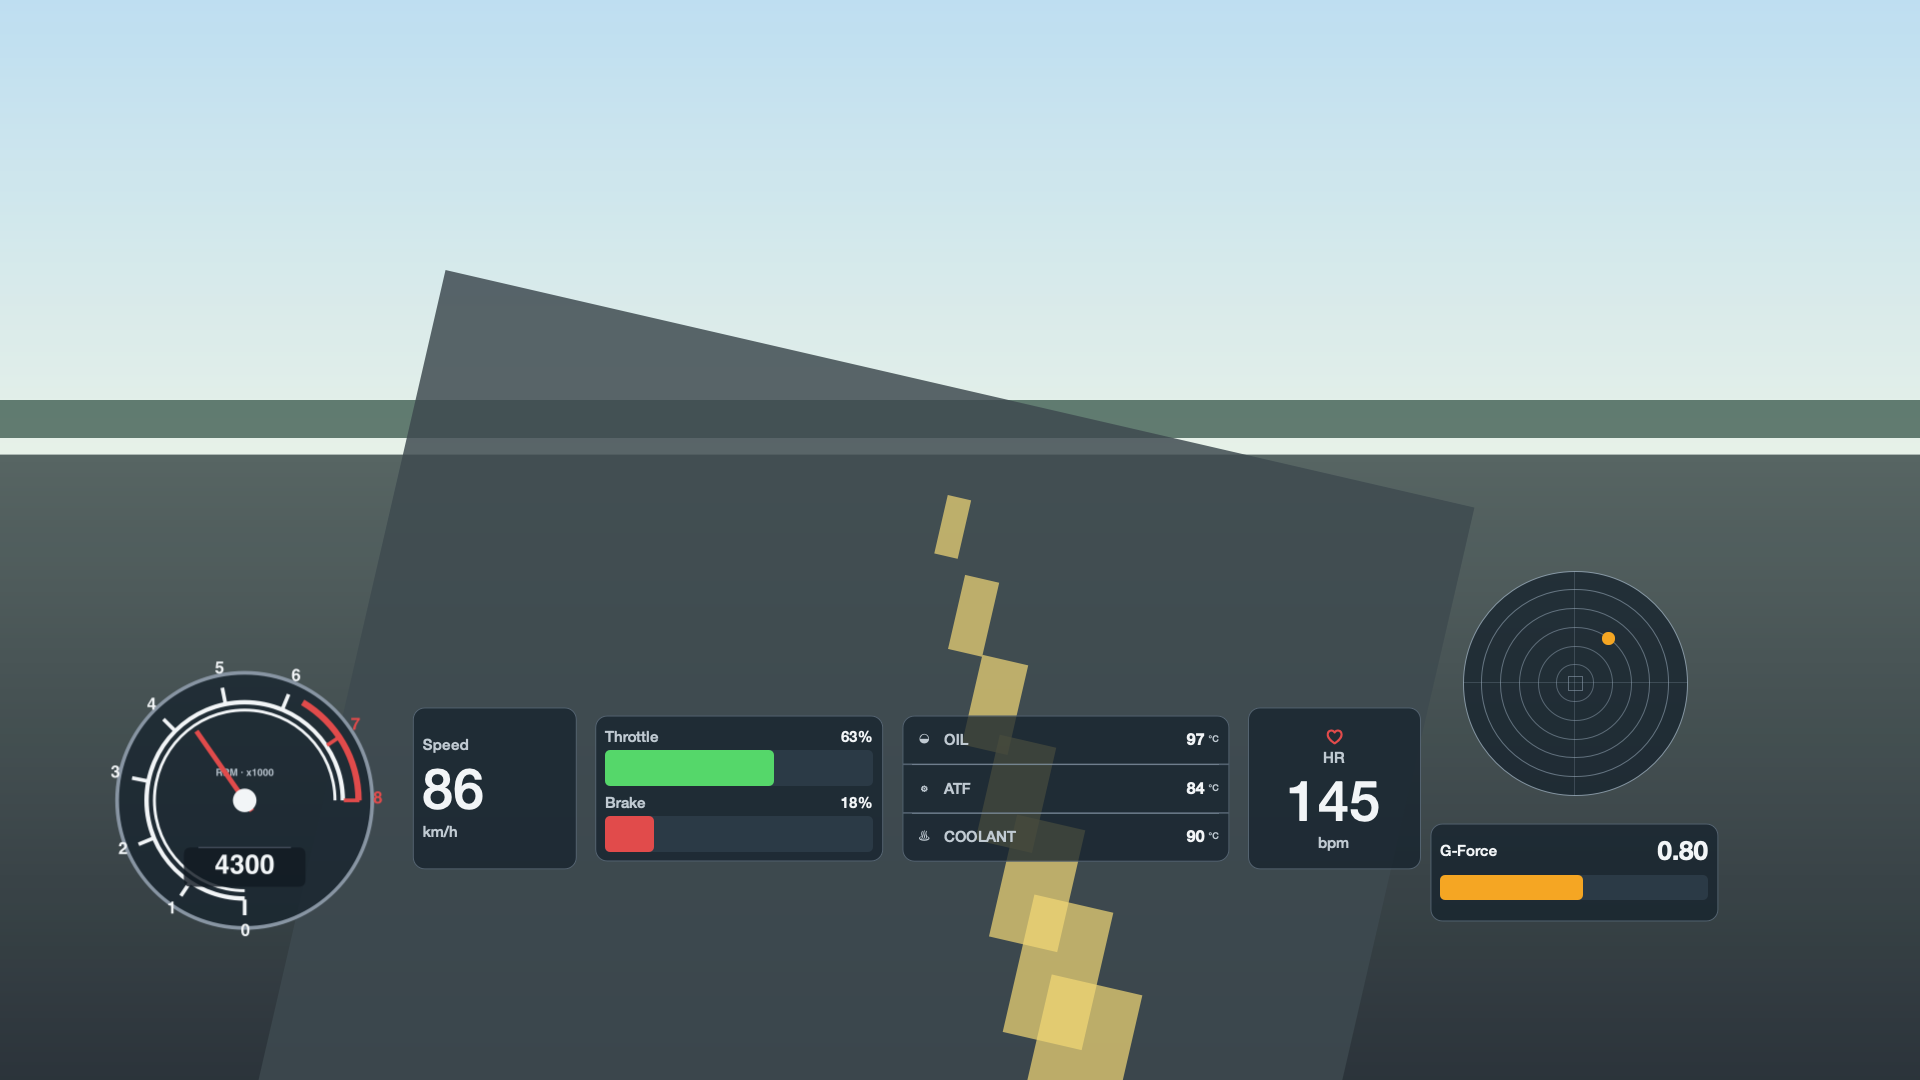
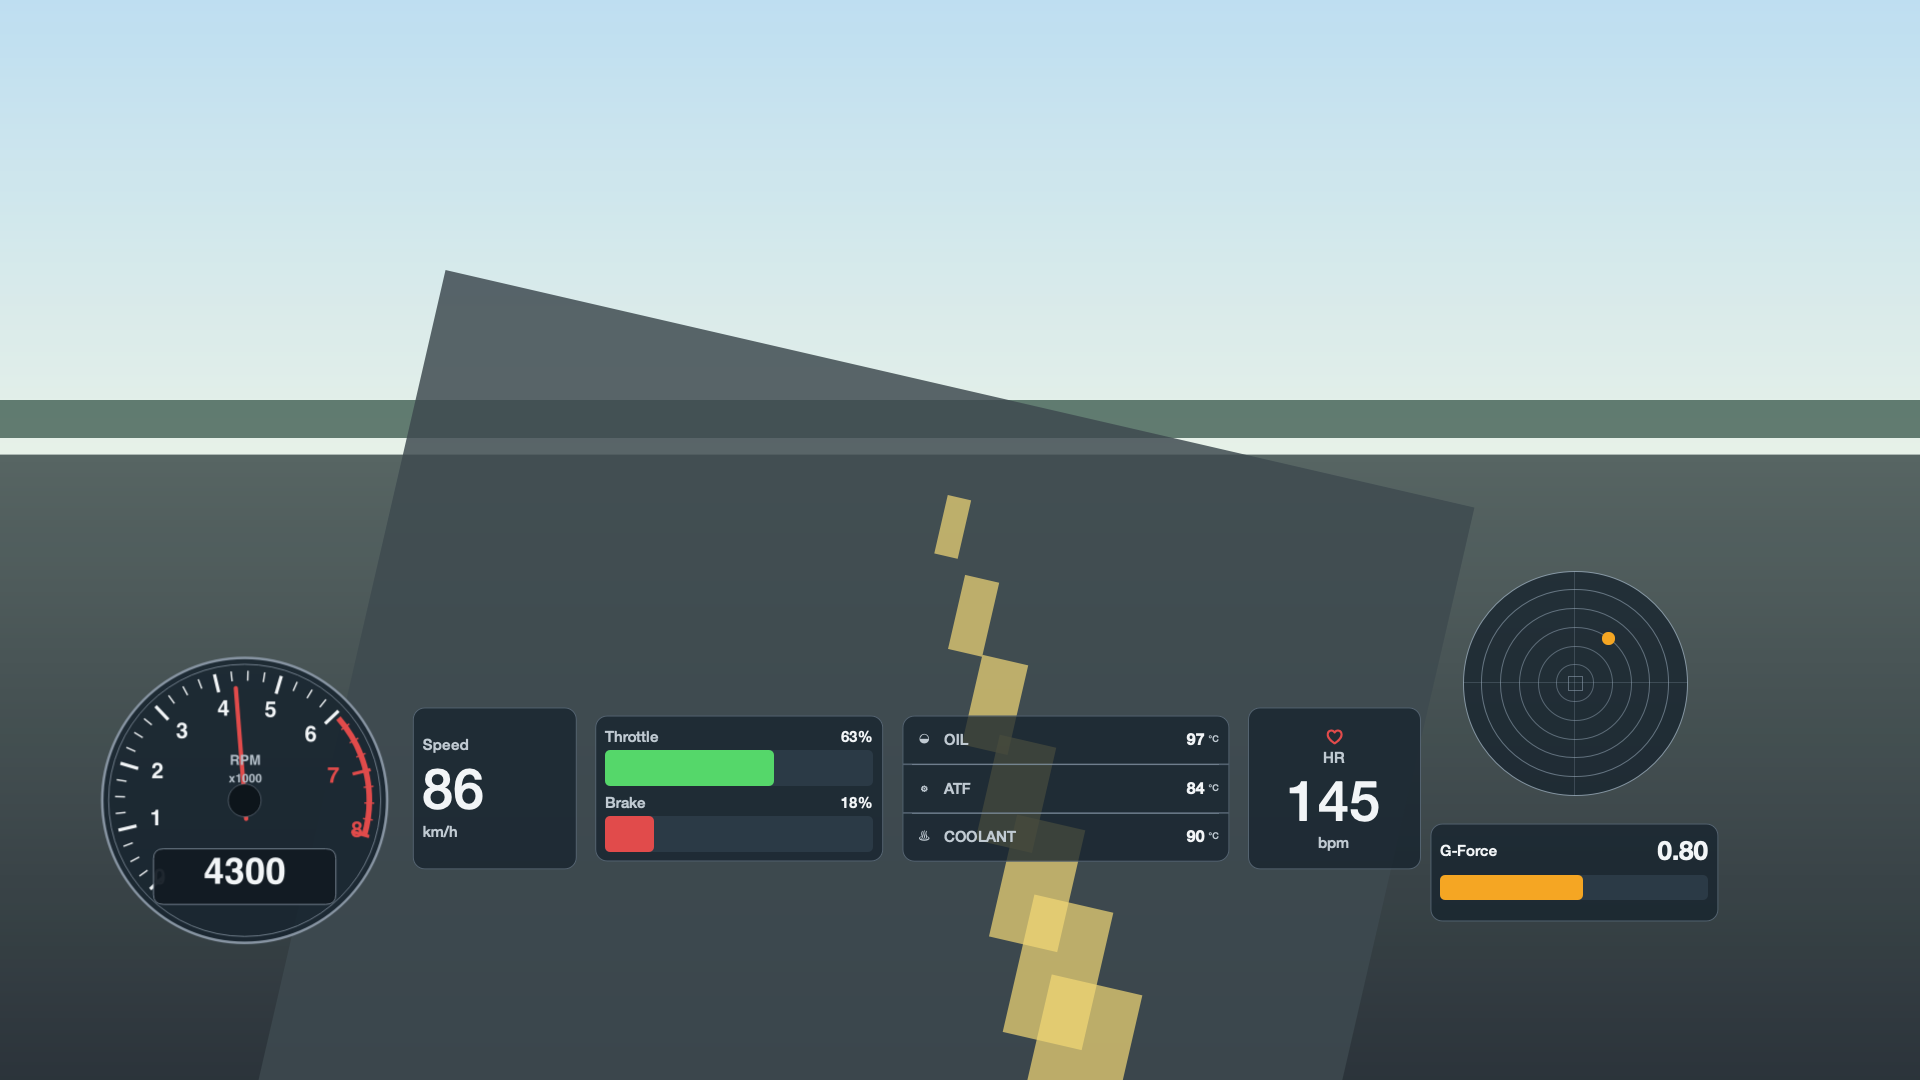
fix: rebuild tachometer dial

Changed region(s): [[0.0312, 0.6111, 0.2188, 0.8861]]

diff --git a/native/qml/widgets/RetroTachometerWidget.qml b/native/qml/widgets/RetroTachometerWidget.qml
@@ -35,94 +35,126 @@ Item {
             const settings = frame.widgetSettings;
             const cx = width / 2;
             const cy = height * 0.52;
-            const radius = Math.min(width, height) * 0.31;
+            const radius = Math.min(width, height) * 0.45;
             const minimum = Number(settings.minValue ?? 0);
             const maximum = Math.max(minimum + 1, Number(settings.maxValue ?? 8000));
             const steps = Math.max(4, Math.min(16, Math.round((maximum - minimum) / 1000)));
             const progress = Math.max(0, Math.min(1, (value - minimum) / (maximum - minimum)));
-            ctx.globalAlpha = Number(settings.panelOpacity ?? 0.86);
+            const startAngle = Math.PI * 0.76;
+            const sweep = Math.PI * 1.33;
+            const endAngle = startAngle + sweep;
+            const dialColor = settings.dialColor || "#f2f5f7";
+            const rimColor = settings.rimColor || "#a6b3bf";
+            const warningColor = settings.warningColor || "#e14b4b";
+
+            // The face deliberately fills the widget and carries every visual
+            // element, so the readout and analog scale read as one instrument.
+            ctx.globalAlpha = Math.max(0.84, Number(settings.panelOpacity ?? 0.86));
             ctx.fillStyle = settings.panelColor || "#111a22";
             ctx.beginPath();
-            ctx.arc(cx, cy, radius * 1.30, 0, Math.PI * 2);
+            ctx.arc(cx, cy, radius, 0, Math.PI * 2);
             ctx.fill();
             ctx.globalAlpha = 1;
-            ctx.lineWidth = Math.max(1.5 * frame.sceneScale, radius * 0.038);
-            ctx.strokeStyle = settings.rimColor || "#a6b3bf";
+            ctx.strokeStyle = rimColor;
+            ctx.lineWidth = Math.max(1.5 * frame.sceneScale, radius * 0.018);
             ctx.beginPath();
-            ctx.arc(cx, cy, radius * 1.30, 0, Math.PI * 2);
+            ctx.arc(cx, cy, radius, 0, Math.PI * 2);
             ctx.stroke();
-            ctx.strokeStyle = settings.dialColor || "#f2f5f7";
-            ctx.fillStyle = settings.dialColor || "#f2f5f7";
+            ctx.globalAlpha = 0.78;
+            ctx.lineWidth = Math.max(1, frame.sceneScale * 0.8);
+            ctx.beginPath();
+            ctx.arc(cx, cy, radius * 0.955, 0, Math.PI * 2);
+            ctx.stroke();
+            ctx.globalAlpha = 1;
+            ctx.strokeStyle = dialColor;
+            ctx.fillStyle = dialColor;
             ctx.textAlign = "center";
             ctx.textBaseline = "middle";
-            ctx.font = "700 " + (frame.configuredFontSize() > 0
-                ? frame.configuredFontSize() * frame.sceneScale
-                : Math.max(9 * frame.sceneScale, radius * 0.18)) + "px " + frame.family;
-            for (const ring of [0.92, 1.0]) {
-                ctx.lineWidth = Math.max(2 * frame.sceneScale,
-                                         radius * (ring === 1.0 ? 0.045 : 0.030));
-                ctx.beginPath();
-                ctx.arc(cx, cy, radius * ring, Math.PI * 0.5, Math.PI * 2);
-                ctx.stroke();
-            }
-            ctx.strokeStyle = settings.warningColor || "#f05a43";
-            ctx.lineWidth = Math.max(4 * frame.sceneScale, radius * 0.065);
+
+            // A continuous redline unifies the red tick hierarchy at the high
+            // end of the dial without competing with the white scale.
+            ctx.strokeStyle = warningColor;
+            ctx.lineWidth = Math.max(3 * frame.sceneScale, radius * 0.040);
             ctx.beginPath();
-            ctx.arc(cx, cy, radius * 1.16,
-                    Math.PI * 0.5 + Math.PI * 1.5 * 0.78, Math.PI * 2);
+            ctx.arc(cx, cy, radius * 0.875, startAngle + sweep * 0.76, endAngle);
             ctx.stroke();
-            for (let step = 0; step <= steps; ++step) {
-                const angle = Math.PI * 0.5 + Math.PI * 1.5 * step / steps;
-                const highRpm = step / steps >= 0.78;
-                ctx.strokeStyle = highRpm ? (settings.warningColor || "#e14b4b") : (settings.dialColor || "#f2f5f7");
+
+            const tickCount = steps * 4;
+            for (let tick = 0; tick <= tickCount; ++tick) {
+                const ratio = tick / tickCount;
+                const angle = startAngle + sweep * ratio;
+                const major = tick % 4 === 0;
+                const highRpm = ratio >= 0.76;
+                ctx.strokeStyle = highRpm ? warningColor : dialColor;
                 ctx.fillStyle = ctx.strokeStyle;
-                ctx.lineWidth = Math.max(1.5 * frame.sceneScale, radius * 0.038);
+                ctx.lineWidth = Math.max(major ? 2 * frame.sceneScale : frame.sceneScale,
+                                         radius * (major ? 0.023 : 0.010));
                 ctx.beginPath();
-                ctx.moveTo(cx + Math.cos(angle) * radius * 1.01, cy + Math.sin(angle) * radius * 1.01);
-                ctx.lineTo(cx + Math.cos(angle) * radius * 1.17, cy + Math.sin(angle) * radius * 1.17);
+                ctx.moveTo(cx + Math.cos(angle) * radius * 0.91, cy + Math.sin(angle) * radius * 0.91);
+                ctx.lineTo(cx + Math.cos(angle) * radius * (major ? 0.78 : 0.84),
+                           cy + Math.sin(angle) * radius * (major ? 0.78 : 0.84));
                 ctx.stroke();
-                ctx.fillText(String(Math.round((minimum + (maximum - minimum) * step / steps) / 1000)), cx + Math.cos(angle) * radius * 1.35, cy + Math.sin(angle) * radius * 1.35);
+                if (major) {
+                    ctx.font = "700 " + (frame.configuredFontSize() > 0
+                        ? frame.configuredFontSize() * frame.sceneScale
+                        : Math.max(12 * frame.sceneScale, radius * 0.16)) + "px " + frame.family;
+                    const edgeLabel = tick === 0 || tick === tickCount;
+                    const labelRadius = edgeLabel ? 0.82 : 0.64;
+                    ctx.fillText(String(Math.round((minimum + (maximum - minimum) * ratio) / 1000)),
+                                 cx + Math.cos(angle) * radius * labelRadius,
+                                 cy + Math.sin(angle) * radius * labelRadius);
+                }
             }
-            // One quiet center caption keeps the analog face primary and avoids
-            // a competing two-line label stack around the hub.
-            ctx.fillStyle = settings.secondaryTextColor || "#b5c0ca";
-            ctx.font = "600 " + Math.max(8 * frame.sceneScale, radius * 0.105) + "px " + frame.family;
-            ctx.fillText((settings.label || "RPM") + " · " + (settings.scaleLabel || "x1000"),
-                         cx, cy - radius * 0.27);
+
             if (hasValue) {
-                const angle = Math.PI * 0.5 + Math.PI * 1.5 * progress;
+                const angle = startAngle + sweep * progress;
                 ctx.strokeStyle = settings.needleColor || "#e32636";
-                ctx.lineWidth = Math.max(3 * frame.sceneScale, radius * 0.05);
+                ctx.lineWidth = Math.max(3 * frame.sceneScale, radius * 0.030);
+                ctx.lineCap = "round";
                 ctx.beginPath();
                 ctx.moveTo(cx - Math.cos(angle) * radius * 0.13, cy - Math.sin(angle) * radius * 0.13);
-                ctx.lineTo(cx + Math.cos(angle) * radius * 0.86, cy + Math.sin(angle) * radius * 0.86);
+                ctx.lineTo(cx + Math.cos(angle) * radius * 0.79, cy + Math.sin(angle) * radius * 0.79);
                 ctx.stroke();
-                ctx.fillStyle = settings.dialColor || "#f2f5f7";
-                ctx.beginPath();
-                ctx.arc(cx, cy, Math.max(5 * frame.sceneScale, radius * 0.12), 0, Math.PI * 2);
-                ctx.fill();
+                ctx.lineCap = "butt";
             }
-            // Recess the digital readout into the lower dial, using a quiet
-            // shelf and top seam instead of a separately outlined card.
-            const plateWidth = radius * 1.24;
-            const plateHeight = Math.max(23 * frame.sceneScale, radius * 0.40);
+
+            // The compact two-line caption follows the reference hierarchy:
+            // informative, but secondary to the analog face and readout.
+            ctx.fillStyle = settings.secondaryTextColor || "#b5c0ca";
+            ctx.font = "700 " + Math.max(9 * frame.sceneScale, radius * 0.105) + "px " + frame.family;
+            ctx.fillText(settings.label || "RPM", cx, cy - radius * 0.27);
+            ctx.font = "600 " + Math.max(8 * frame.sceneScale, radius * 0.085) + "px " + frame.family;
+            ctx.fillText(settings.scaleLabel || "x1000", cx, cy - radius * 0.14);
+
+            ctx.fillStyle = "#0d151b";
+            ctx.beginPath();
+            ctx.arc(cx, cy, Math.max(8 * frame.sceneScale, radius * 0.115), 0, Math.PI * 2);
+            ctx.fill();
+            ctx.globalAlpha = 0.48;
+            ctx.strokeStyle = rimColor;
+            ctx.lineWidth = Math.max(1, frame.sceneScale * 0.75);
+            ctx.beginPath();
+            ctx.arc(cx, cy, Math.max(8 * frame.sceneScale, radius * 0.115), 0, Math.PI * 2);
+            ctx.stroke();
+            ctx.globalAlpha = 1;
+
+            const plateWidth = radius * 1.28;
+            const plateHeight = Math.max(26 * frame.sceneScale, radius * 0.39);
             const plateX = cx - plateWidth / 2;
-            const plateY = cy + radius * 0.48;
-            ctx.globalAlpha = Math.min(0.82, Number(settings.backgroundOpacity ?? 0.90));
+            const plateY = cy + radius * 0.34;
+            ctx.globalAlpha = 0.94;
             roundedPath(ctx, plateX, plateY, plateWidth, plateHeight, Math.max(3 * frame.sceneScale, plateHeight * 0.18));
             ctx.fillStyle = settings.valuePlateColor || "#111a22";
             ctx.fill();
             ctx.globalAlpha = 1;
-            ctx.strokeStyle = settings.rimColor || "#a6b3bf";
-            ctx.globalAlpha = 0.52;
-            ctx.lineWidth = Math.max(1, frame.sceneScale * 0.8);
-            ctx.beginPath();
-            ctx.moveTo(plateX + plateWidth * 0.12, plateY);
-            ctx.lineTo(plateX + plateWidth * 0.88, plateY);
+            ctx.strokeStyle = rimColor;
+            ctx.globalAlpha = 0.82;
+            ctx.lineWidth = Math.max(1, frame.sceneScale);
+            roundedPath(ctx, plateX, plateY, plateWidth, plateHeight, Math.max(3 * frame.sceneScale, plateHeight * 0.18));
             ctx.stroke();
             ctx.globalAlpha = 1;
-            ctx.fillStyle = settings.dialColor || "#f2f5f7";
-            ctx.font = "700 " + Math.max(16 * frame.sceneScale, plateHeight * 0.70) + "px " + frame.family;
+            ctx.fillStyle = dialColor;
+            ctx.font = "700 " + Math.max(17 * frame.sceneScale, plateHeight * 0.68) + "px " + frame.family;
             ctx.fillText(hasValue ? Math.round(value).toString() : "—", cx, plateY + plateHeight * 0.54);
         }
     }
